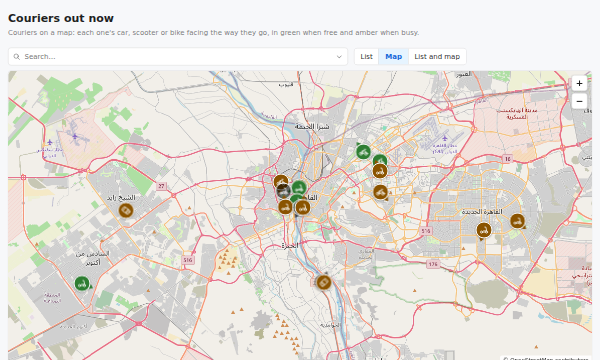
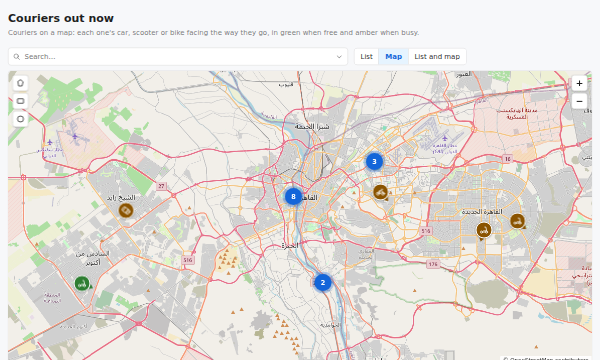
fix(map): the couriers' pins crowd into bubbles, every one reachable

diff --git a/e2e/map-list.spec.ts b/e2e/map-list.spec.ts
@@ -323,11 +323,12 @@ test('couriers drawn by their records: each one’s vehicle, a car turned the wa
   const { problems } = await openList(page, 'plain', COURIERS);
   await expect(view(page, 'Map')).toHaveAttribute('aria-pressed', 'true');
   await expect(page.locator('.fd-list-table')).toBeHidden();
-  // Not gathered into bubbles: the page says so.
-  await expect(bubbles(page)).toHaveCount(0);
-  await expect(pins(page)).toHaveCount(18);
-  const faces = page.locator('.fd-map-list .fd-map-face[data-look="icon"]');
-  await expect(faces).toHaveCount(18);
+  await expect.poll(() => onTheMap(page)).toBe(18);
+  // Closer, so the couriers that crowd part.
+  for (let i = 0; i < 3; i++) await theMap(page).getByRole('button', { name: 'Zoom in', exact: true }).click();
+  await page.waitForTimeout(600);
+  const faces = page.locator('.fd-map-list .fd-map-mark:not(.fd-map-ghost) .fd-map-face[data-look="icon"]');
+  expect(await faces.count()).toBeGreaterThanOrEqual(4);
   const drawn = await faces.evaluateAll((all) =>
     all.map((face) => ({
       icon: face.querySelector('svg')?.getAttribute('data-icon'),
@@ -337,9 +338,9 @@ test('couriers drawn by their records: each one’s vehicle, a car turned the wa
       background: getComputedStyle(face).backgroundColor,
     }))
   );
-  expect(new Set(drawn.map((d) => d.icon))).toEqual(new Set(['car', 'scooter', 'bike']));
-  expect(new Set(drawn.map((d) => d.tone))).toEqual(new Set(['success', 'warning', 'muted']));
   for (const d of drawn) {
+    expect(['car', 'scooter', 'bike']).toContain(d.icon);
+    expect(['success', 'warning', 'muted']).toContain(d.tone);
     if (d.icon === 'car') {
       expect(d.turned).toMatch(/^rotate\(\d+deg\)$/);
       expect(d.pointer).toBeNull();
@@ -348,14 +349,14 @@ test('couriers drawn by their records: each one’s vehicle, a car turned the wa
       expect(d.pointer).toMatch(/^rotate\(\d+deg\)$/);
     }
   }
-  // Free, delivering and on a break: three colours.
+  // Each status its own colour.
   const byTone = new Map(drawn.map((d) => [d.tone, d.background]));
-  expect(new Set(byTone.values()).size).toBe(3);
+  expect(new Set(byTone.values()).size).toBe(byTone.size);
   // Each named for a screen reader: their name, nothing else, as the pin says no words.
   await expect(pins(page).first()).toHaveAttribute('aria-label', /^[A-Z][a-z]+ [A-Z][a-z]+$/);
   await screen(page, 'map-list-couriers');
   // The card: their photo and their fields.
-  await pins(page).first().click();
+  await pins(page).first().locator('.fd-map-face').click();
   await expect(card(page).locator('img.fd-map-card-image')).toBeVisible();
   await expect(card(page).locator('dt')).toHaveText(['Status', 'Vehicle', 'Orders today', 'Phone']);
   await view(page, 'List').click();
@@ -464,8 +465,8 @@ test('a circle drawn on the couriers’ map keeps those within it, their place o
   const centre = await at(theMap(page), 0.5, 0.45);
   await drag(page, centre, { x: centre.x + 160, y: centre.y });
   await expect(chips(page)).toHaveText(['In the area drawn']);
-  await expect.poll(() => pins(page).count()).toBeLessThan(18);
-  expect(await pins(page).count()).toBeGreaterThan(0);
+  await expect.poll(() => onTheMap(page)).toBeLessThan(18);
+  expect(await onTheMap(page)).toBeGreaterThan(0);
   await expect(page.locator('.fd-map-list circle, .fd-map-list path.fd-map-searched')).not.toHaveCount(0);
 });
 

diff --git a/e2e/demos-shell.spec.ts b/e2e/demos-shell.spec.ts
@@ -29,7 +29,9 @@ test('every page the demos serve has a card of its own, so a visitor can find it
   const shown = new Set(DEMOS.map((demo) => new URLSearchParams(demo.query ?? '').get('page') ?? 'signup'));
   // The 500-field page is for timing (e2e/perf.spec.ts), not for a visitor: it has no card on purpose.
   const forTiming = new Set(['big']);
-  const unnamed = Object.keys(pages).filter((name) => !shown.has(name) && !forTiming.has(name));
+  // A home's and a courier's own page: a record opened from its list's row or card, not a demo of its own.
+  const opened = new Set(['map-home', 'map-courier']);
+  const unnamed = Object.keys(pages).filter((name) => !shown.has(name) && !forTiming.has(name) && !opened.has(name));
   expect(unnamed).toEqual([]);
 });
 

diff --git a/libs/map/README.md b/libs/map/README.md
@@ -85,8 +85,9 @@ bike, bus, person, shop, food and flag, Fieldia's, or the app's `icons`),
 turns whole; other icons keep upright, a pointer on their edge turning), and
 `tones` its colour by condition. `widget` names the app's own pin, given as
 `mapListViews({ pins: { name: (record, { document }) => element } })`. `card`
-takes `title`, `image`, `fields` and `open`; `cluster: false` keeps every pin
-apart; `view` is `list`, `map` or `both`; `limit` is 500 unless said.
+takes `title`, `image`, `fields` and `open`; `cluster: false` draws every pin
+on its own, though pins near one another then overlap and a pointer cannot
+reach one under another (the keys still reach each); `view` is `list`, `map` or `both`; `limit` is 500 unless said.
 
 The map's own tools draw an area to search in: a polygon, a box or a circle,
 by mouse, finger or keys, as the area field draws one. It becomes a search of
